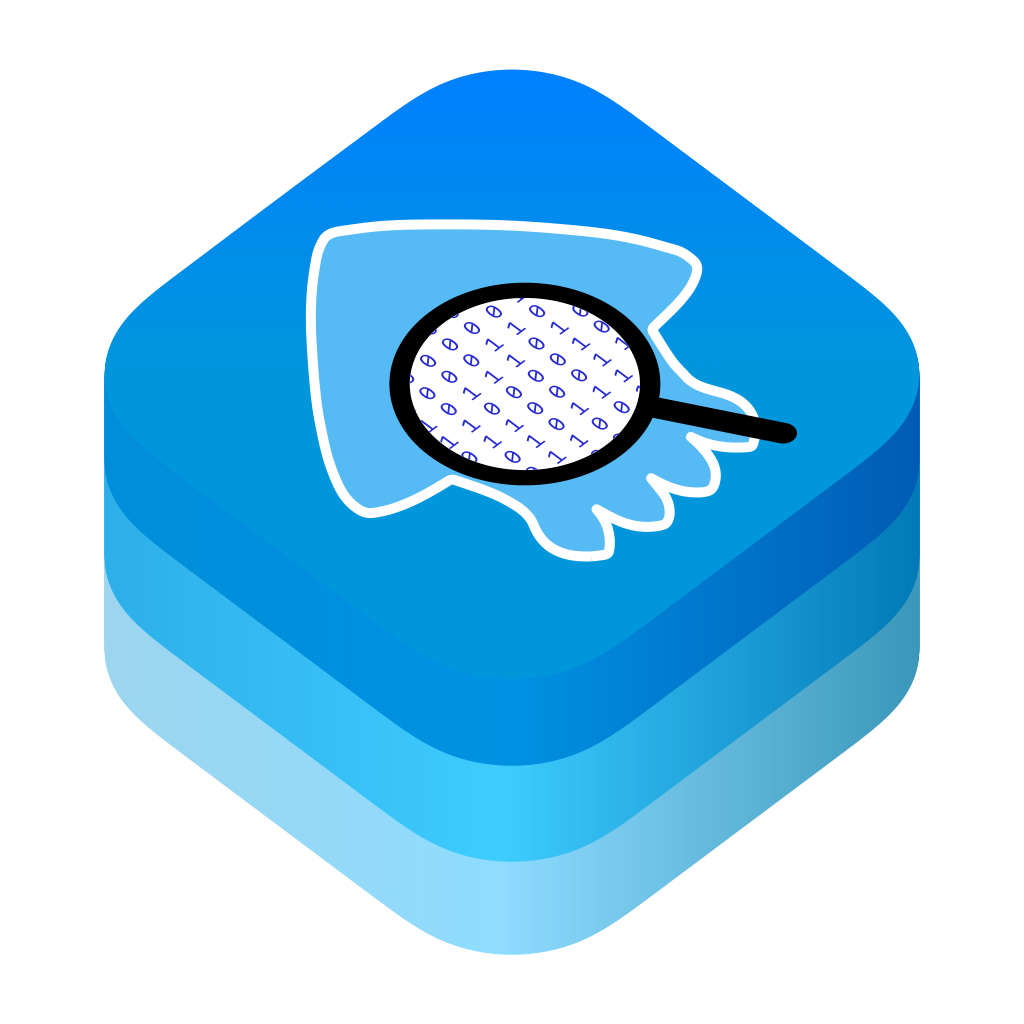
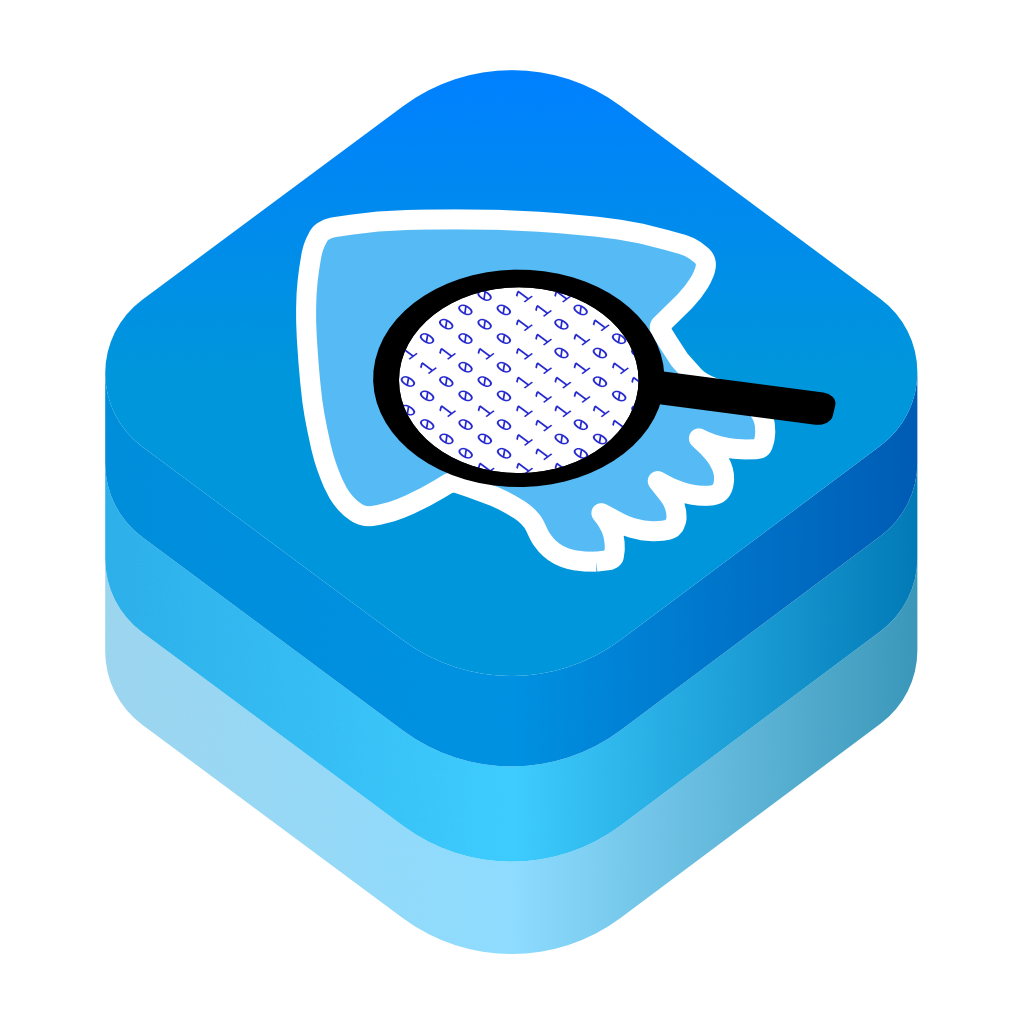
Replace use of deprecated UIApplication.windows

diff --git a/Sources/SplatalyzerUI/UIApplication+Extension.swift b/Sources/SplatalyzerUI/UIApplication+Extension.swift
@@ -11,21 +11,36 @@ import Foundation
 import UIKit
 
 extension UIApplication {
+    private var connectedKeyWindow: UIWindow? {
+        return self.connectedScenes
+            .compactMap { $0 as? UIWindowScene }
+            .flatMap { $0.windows }
+            .first { $0.isKeyWindow }
+    }
+    
     public var isSplitOrSlideOver: Bool {
-        guard let window = self.windows.filter({ $0.isKeyWindow }).first else { return false }
-        return !(window.frame.width == window.screen.bounds.width)
+        guard let window = self.connectedKeyWindow, let screen = window.windowScene?.screen else { return false }
+        return !(window.frame.width == screen.bounds.width)
     }
     
     public var isFullScreen: Bool {
-        let appRect = UIApplication.shared.windows.first?.frame ?? CGRect.infinite
-        let screenRect = UIScreen.main.bounds
+        guard let window = self.connectedKeyWindow, let screen = window.windowScene?.screen else { return false }
+        
+        let appRect = window.frame
+        let screenRect = screen.bounds
         return appRect.width == screenRect.width && appRect.height == screenRect.height
     }
     
     public var screenSize: CGSize {
-        guard let size = self.windows.filter({ $0.isKeyWindow }).first?.bounds.size else { return .zero }
-        return size
+        return connectedKeyWindow?.bounds.size ?? .zero
     }
+    
+    public var activeInterfaceOrientation: UIInterfaceOrientation {
+            let windowScene = self.connectedScenes
+                .first(where: { $0.activationState == .foregroundActive }) as? UIWindowScene
+            
+            return windowScene?.interfaceOrientation ?? .unknown
+        }
 }
 #endif
 

diff --git a/Sources/SplatalyzerUI/Stats/StatViewiOS.swift b/Sources/SplatalyzerUI/Stats/StatViewiOS.swift
@@ -64,9 +64,7 @@ public struct StatViewiOS: View {
             self.isPortrait = UIDevice.current.orientation.isPortrait
         }
         .onReceive(NotificationCenter.default.publisher(for: UIDevice.orientationDidChangeNotification)) { _ in
-            guard let scene = UIApplication.shared.windows.first?.windowScene else { return }
-            print(scene.interfaceOrientation.isPortrait)
-            self.isPortrait = scene.interfaceOrientation.isPortrait
+            self.isPortrait = UIApplication.shared.activeInterfaceOrientation.isPortrait
         }
     }
 }

diff --git a/Sources/SplatalyzerUpdater/Documentation.docc/Documentation.md b/Sources/SplatalyzerUpdater/Documentation.docc/Documentation.md
@@ -1,0 +1,15 @@
+# ``SplatalyzerUpdater``
+
+A CLI utility that updates Splatalyzer with the latest game data.
+
+@Metadata {
+    @PageImage(
+        purpose: icon,
+        source: "SplatalyzerUpdater",
+        alt: "The icon for the SplatalyzerUpdater package."
+    )
+}
+
+## Overview
+
+This CLI utility pulls data from https://github.com/Leanny/splat3 and updates Splatalyzer with the recieved data.